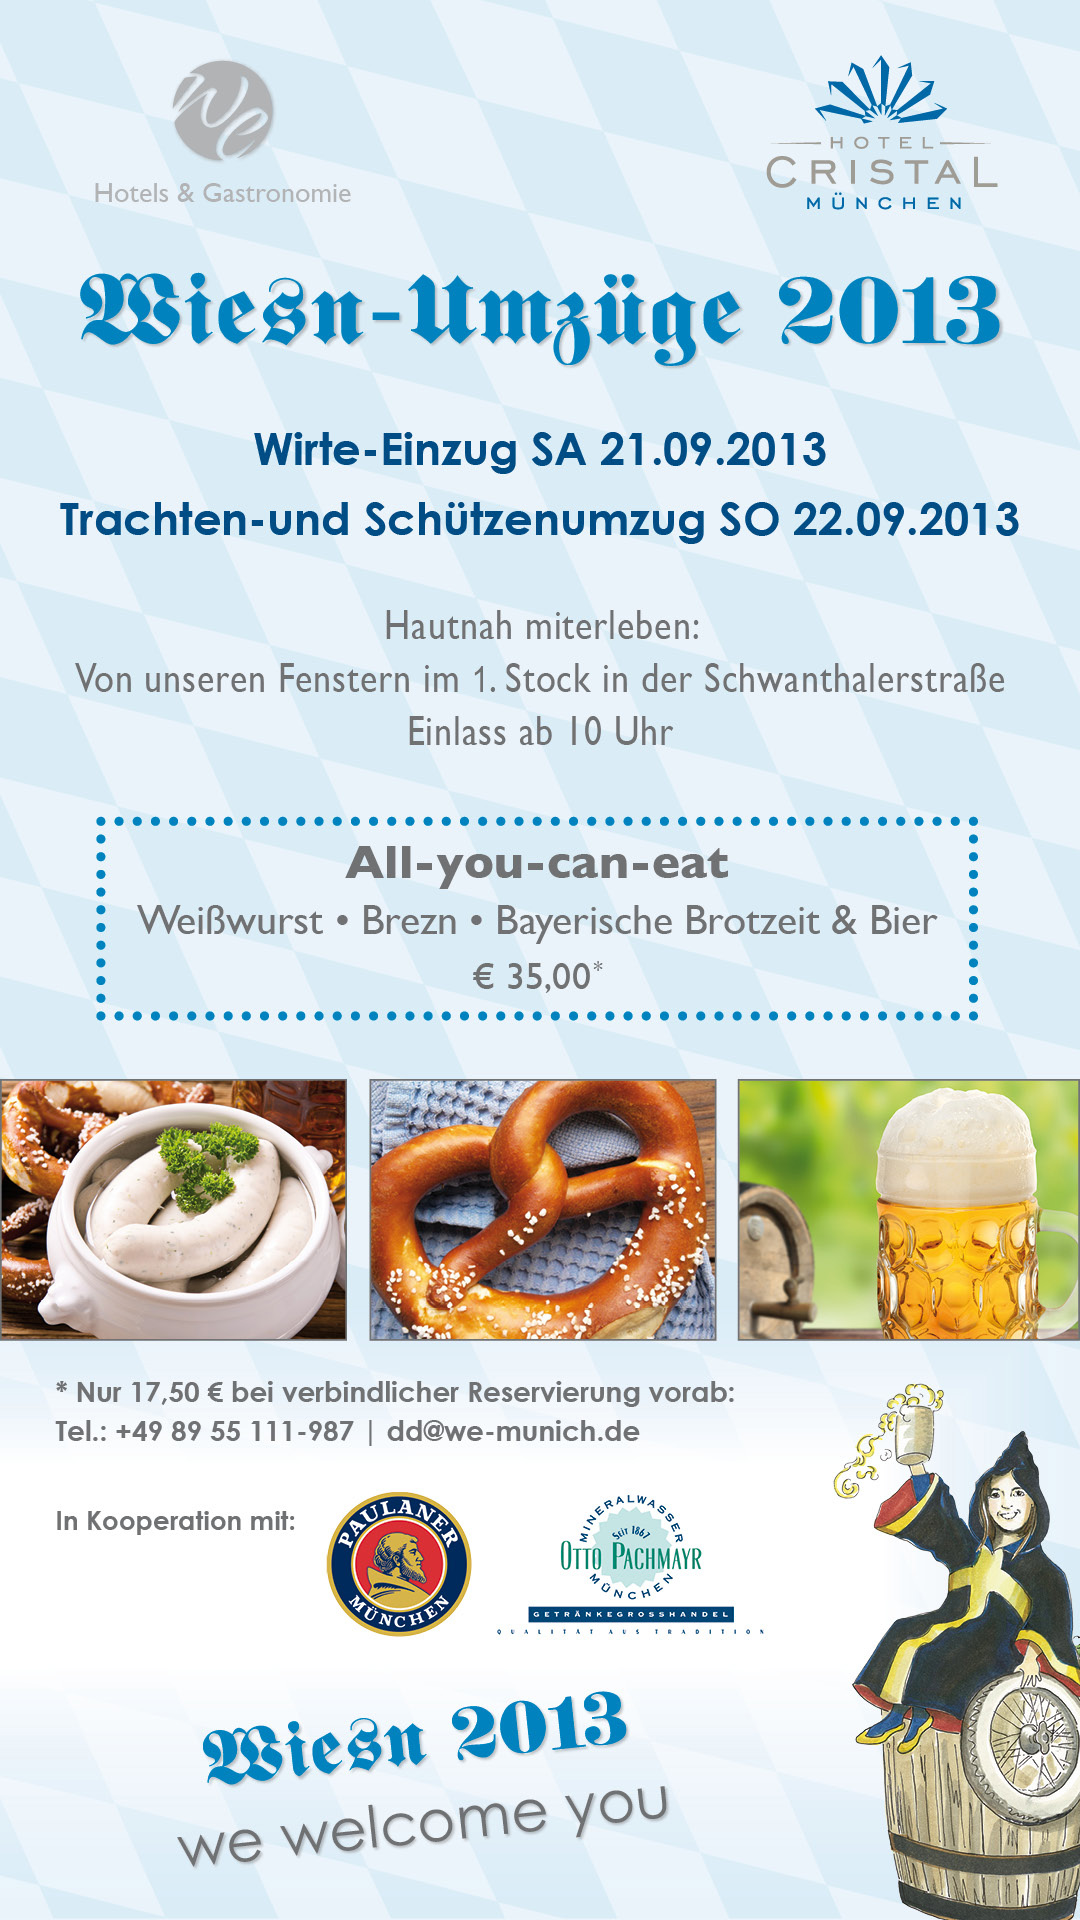
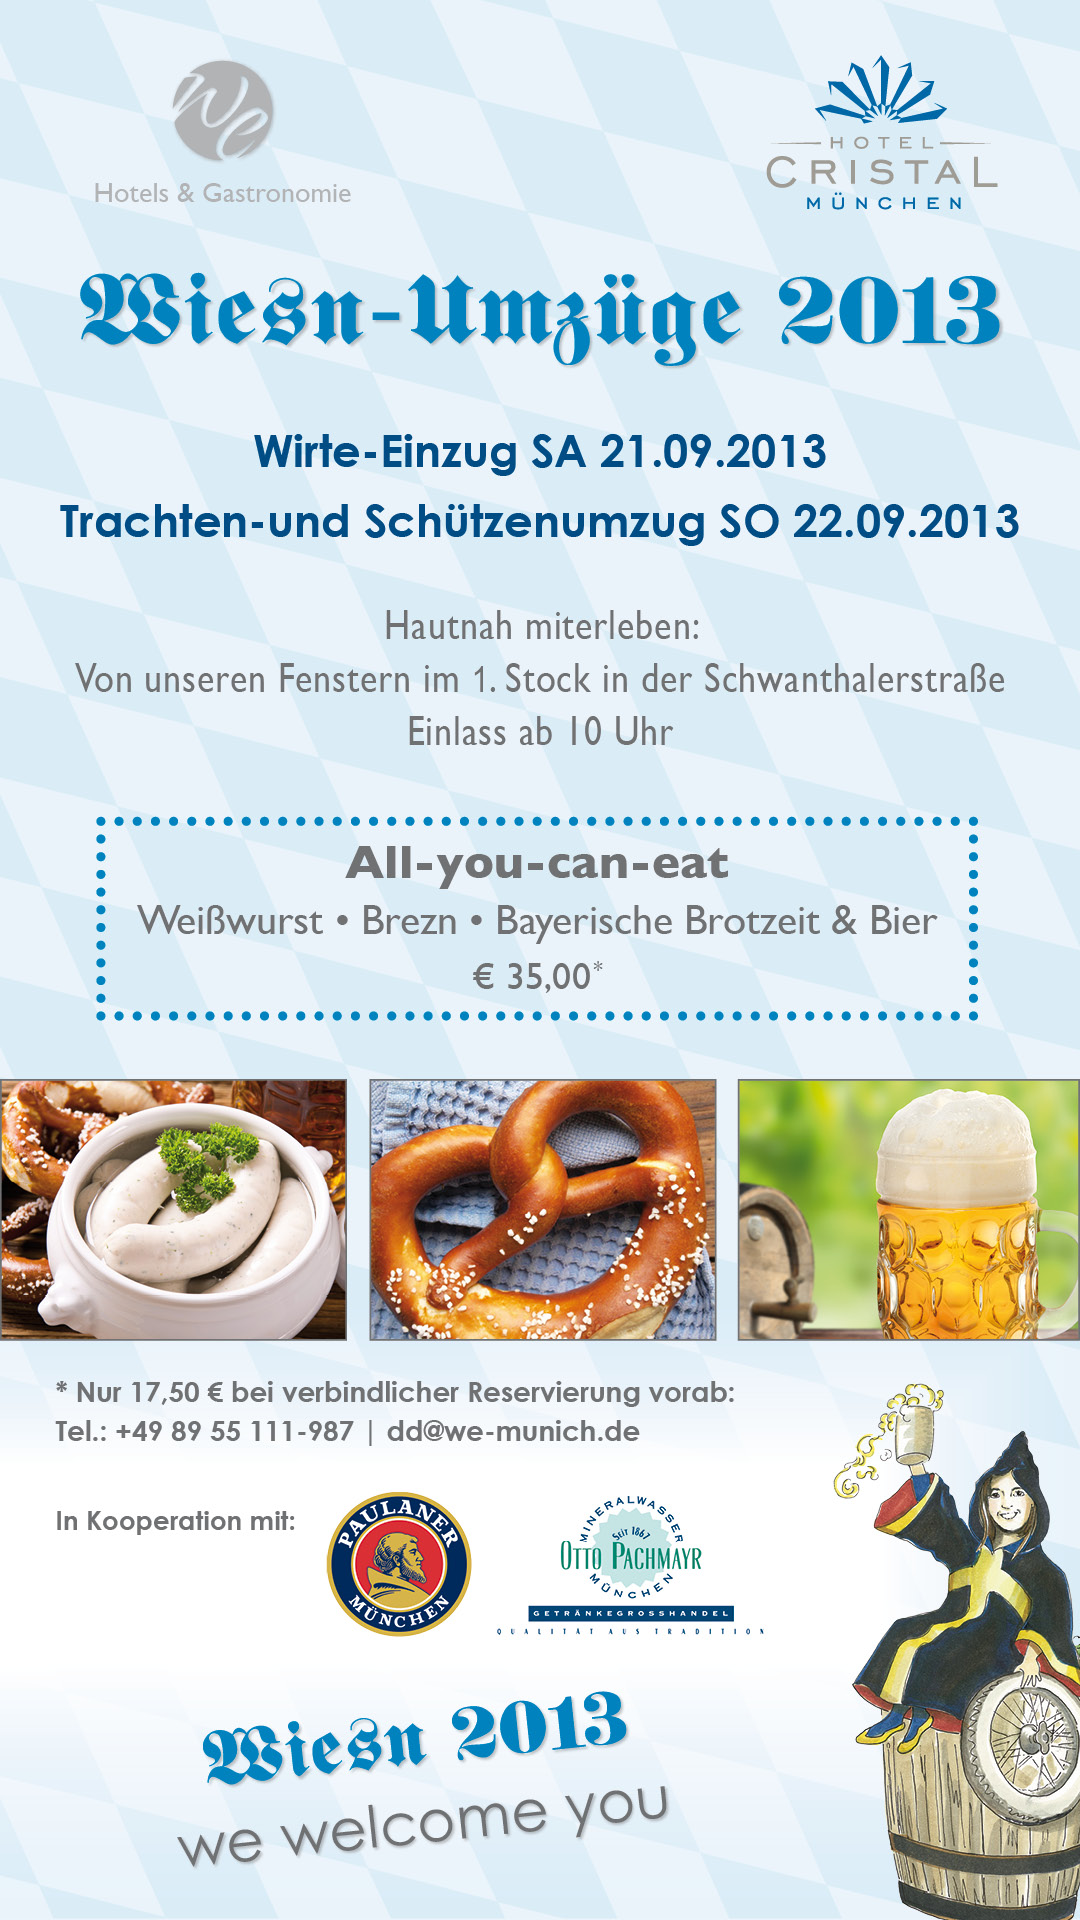
Wiesn Ad englisch

diff --git a/src/main/webapp/scripts/rooms.js b/src/main/webapp/scripts/rooms.js
@@ -28,7 +28,11 @@ jQuery(document).ready(function () {
 		            			}else if($.cookie('switchAdToggle') == 1){
 		            				$('body').css("color", "#707173").css("background","url('images/Monitor-Lobby_100Jahre-Neu.jpg')").css("height", "1920px").css("width", "1080px");
 		            				$.cookie('switchAdToggle', 2);
-		            			}
+		            			
+	            			}else if($.cookie('switchAdToggle') == 2){
+	            				$('body').css("color", "#707173").css("background","url('images/Lobby-Monitor-Cristal_Wiesn-Umzuege-2013-engl.jpg')").css("height", "1920px").css("width", "1080px");
+	            				$.cookie('switchAdToggle', 3);
+	            			}		            			
 		            			else{
 		            				$('body').css("color", "#707173").css("background","url('images/Lobby-Monitor-Cristal_Wiesn-Umzuege-2013.jpg')").css("height", "1920px").css("width", "1080px");
 		            				$.cookie('switchAdToggle', 0);
